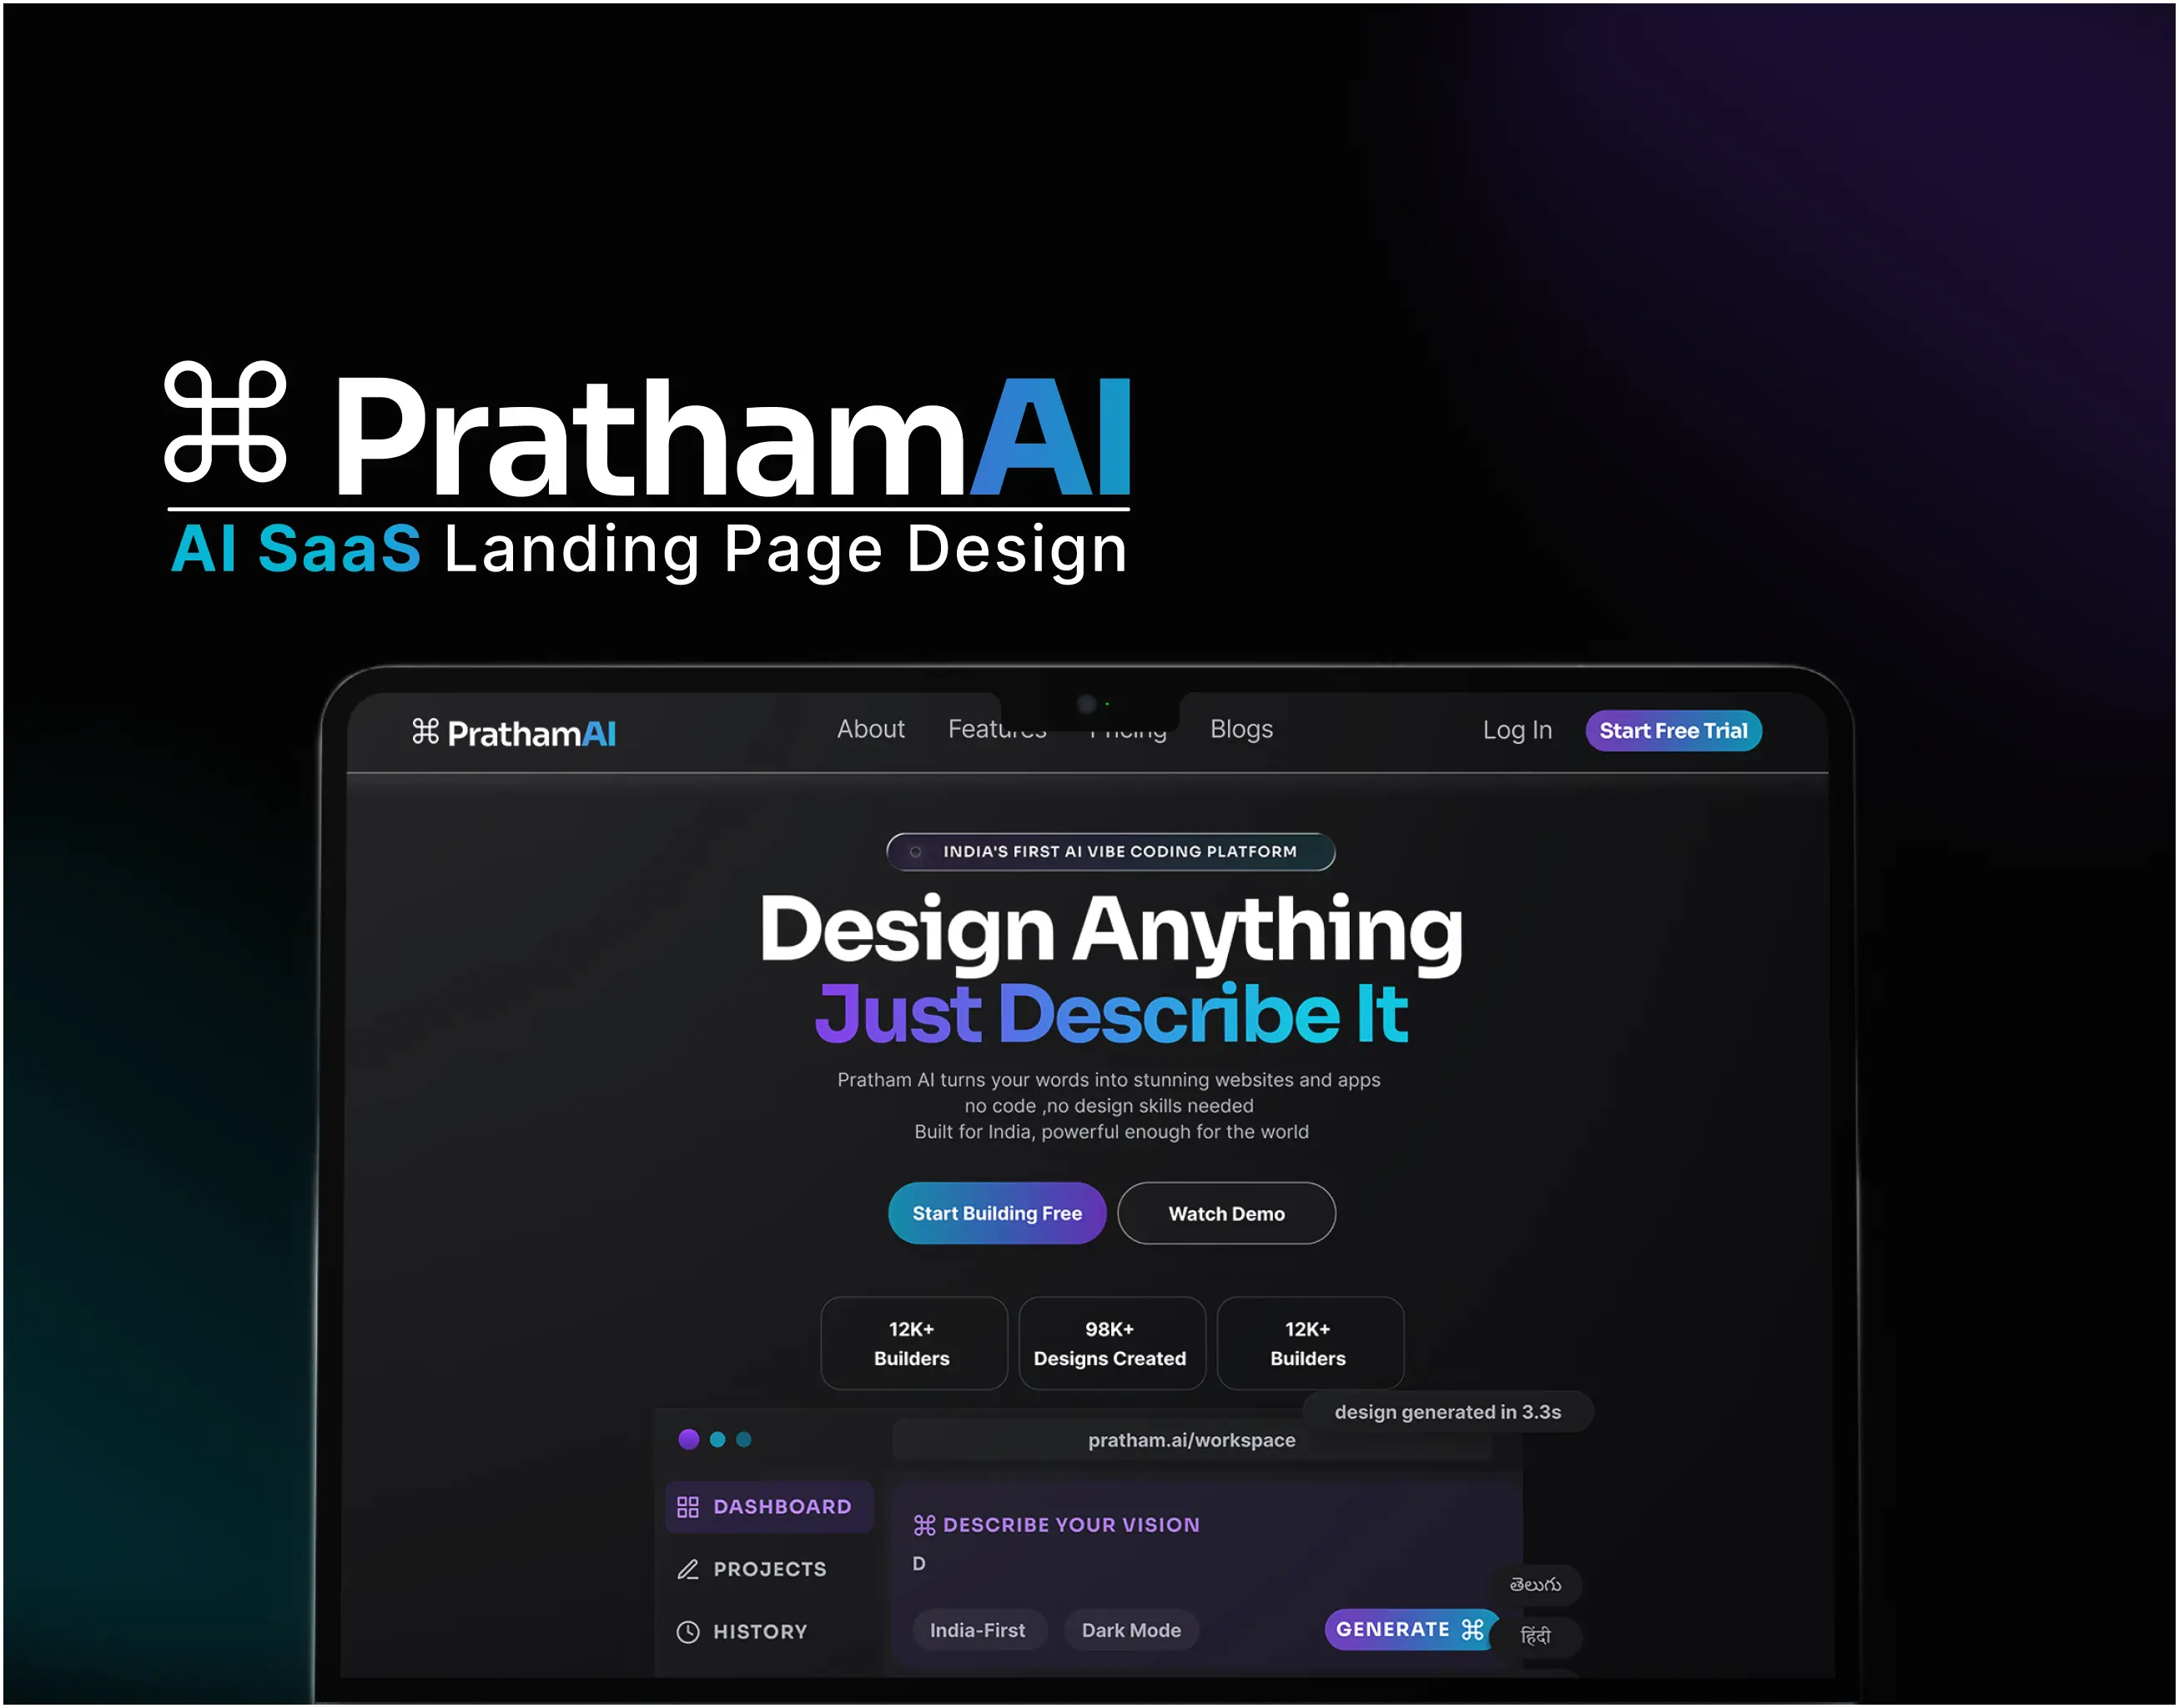
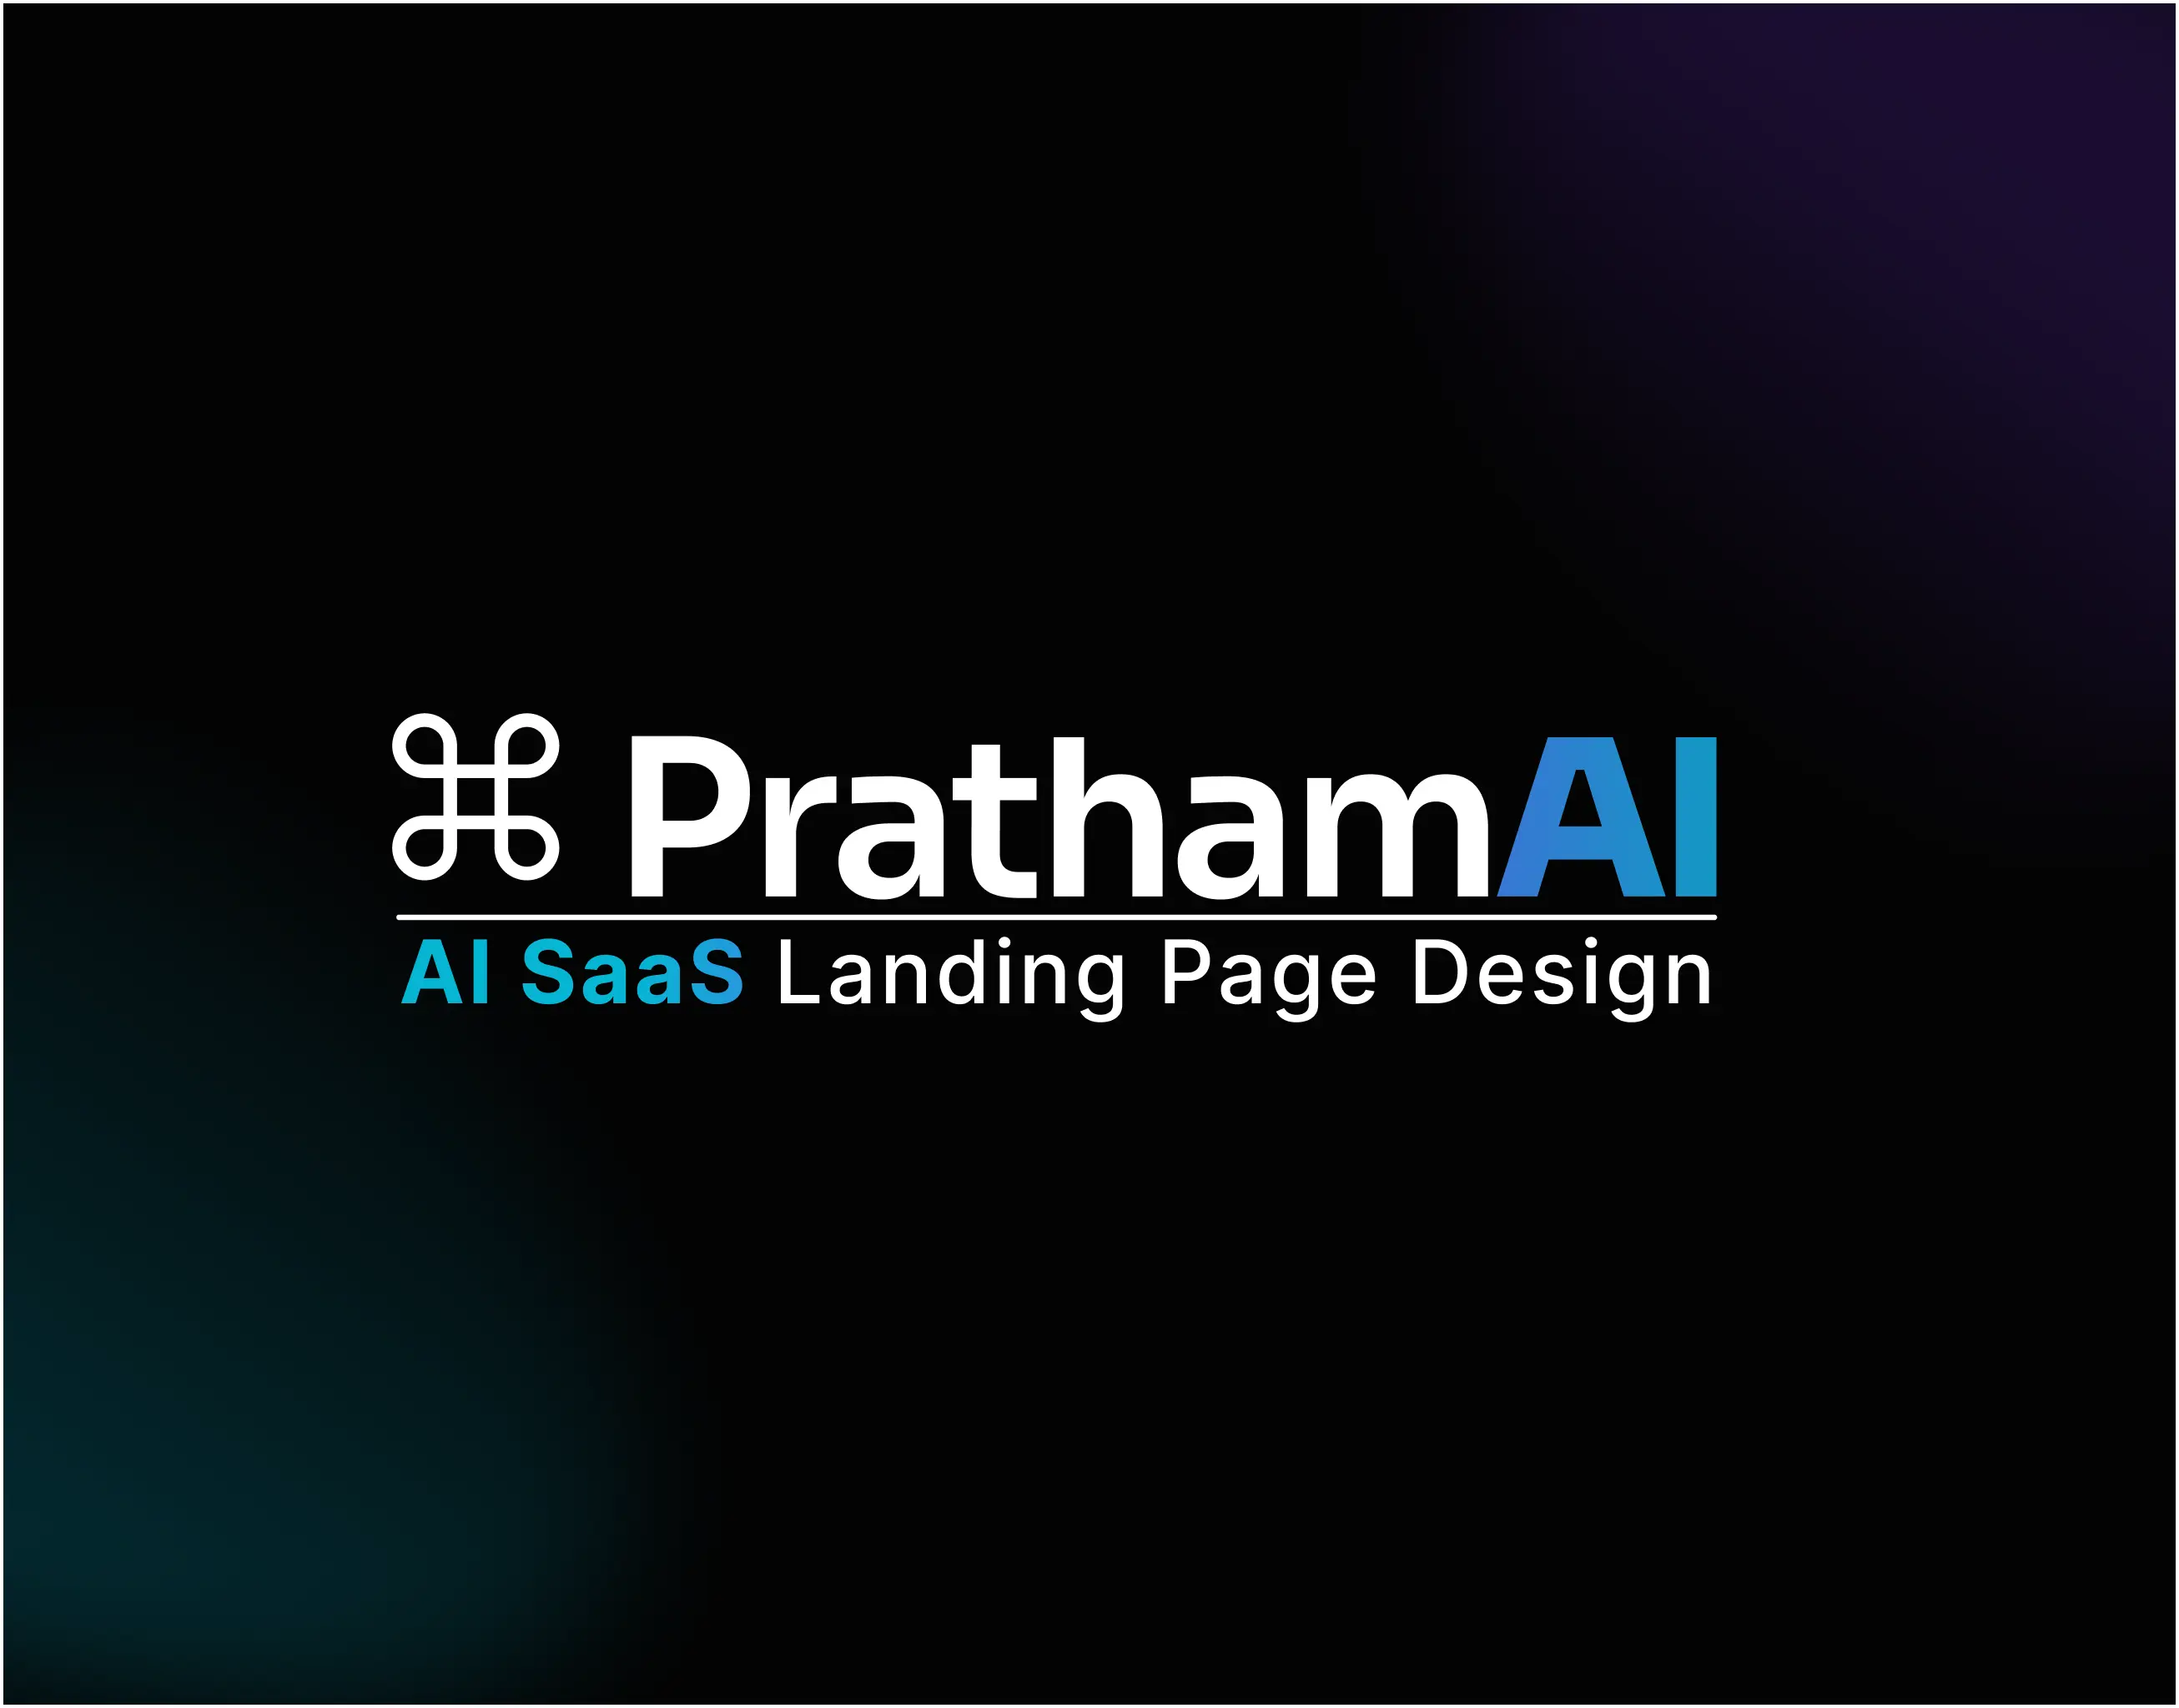
Fix: Revert background adjustments and update project saas webp asset

Changed region(s): [[0.124, 0.375, 0.8373, 1.0], [0.062, 0.2188, 0.5272, 0.3438]]

diff --git a/src/components/Cursor.tsx b/src/components/Cursor.tsx
@@ -1,38 +1,117 @@
 'use client'
-import { useEffect } from 'react'
 
-export default function Cursor() {
+import { useEffect, useRef } from 'react'
+import { gsap } from 'gsap'
+
+export default function CustomCursor() {
+  const cursorRef = useRef<HTMLDivElement>(null)
+
   useEffect(() => {
-    const cursor = document.getElementById('cursor')
-    const ring = document.getElementById('cursor-ring')
-    if (!cursor || !ring) return
+    const cursor = cursorRef.current
+    if (!cursor) return
 
-    let mx = 0, my = 0, rx = 0, ry = 0
+    // Hidden initially to prevent a sudden visual pop on load
+    gsap.set(cursor, { opacity: 0, scale: 1 })
 
-    document.addEventListener('mousemove', (e) => {
-      mx = e.clientX; my = e.clientY
-      cursor.style.transform = `translate(${mx - 4}px,${my - 4}px)`
-    })
-
-    const animRing = () => {
-      rx += (mx - rx) * 0.11
-      ry += (my - ry) * 0.11
-      ring.style.transform = `translate(${rx - 16}px,${ry - 16}px)`
-      requestAnimationFrame(animRing)
+    // 1. Smoothly track cursor coordinates
+    const moveCursor = (e: MouseEvent) => {
+      gsap.to(cursor, {
+        x: e.clientX,
+        y: e.clientY,
+        duration: 0.1,
+        ease: 'power2.out',
+        overwrite: 'auto'
+      })
+      gsap.to(cursor, { opacity: 1, duration: 0.2 })
     }
-    animRing()
 
-    const hoverEls = document.querySelectorAll('a, button, .mag-btn')
-    hoverEls.forEach(el => {
-      el.addEventListener('mouseenter', () => ring.classList.add('hovered'))
-      el.addEventListener('mouseleave', () => ring.classList.remove('hovered'))
-    })
+    // 2. Dynamic Hover Handler (Handles any current or future buttons seamlessly)
+    const handleMouseOver = (e: MouseEvent) => {
+      // Find closest interactive element if hovering child elements
+      const target = (e.target as HTMLElement).closest('.nav-link, .nav-cta, .social-icon, .project-card-trigger, .mag') as HTMLElement
+      
+      if (!target) {
+        // If we aren't hovering an interactive item, keep cursor at standard size
+        gsap.to(cursor, {
+          width: '8px',
+          height: '8px',
+          scale: 1,
+          borderRadius: '50%',
+          backgroundColor: '#CC0000',
+          borderColor: 'transparent',
+          mixBlendMode: 'normal',
+          duration: 0.3,
+          ease: 'power2.out'
+        })
+        return
+      }
+
+      // If it's a prominent main CTA button, dynamically frame it magnetically
+      if (target.classList.contains('nav-cta')) {
+        const rect = target.getBoundingClientRect()
+        gsap.to(cursor, {
+          x: rect.left + rect.width / 2,
+          y: rect.top + rect.height / 2,
+          width: rect.width + 12,
+          height: rect.height + 12,
+          borderRadius: '4px',
+          backgroundColor: 'rgba(204, 0, 0, 0.1)',
+          borderColor: '#CC0000',
+          duration: 0.3,
+          ease: 'power2.out',
+          overwrite: 'auto'
+        })
+      } else {
+        // Expand/invert cursor for text links and simple icons
+        gsap.to(cursor, {
+          scale: 2.5,
+          backgroundColor: '#CC0000',
+          borderColor: 'transparent',
+          mixBlendMode: 'difference',
+          duration: 0.2,
+          overwrite: 'auto'
+        })
+      }
+    }
+
+    // Bind global listeners to window
+    window.addEventListener('mousemove', moveCursor)
+    window.addEventListener('mouseover', handleMouseOver)
+
+    // Perfectly clean up memory allocations when unmounting
+    return () => {
+      window.removeEventListener('mousemove', moveCursor)
+      window.removeEventListener('mouseover', handleMouseOver)
+    }
   }, [])
 
   return (
     <>
-      <div id="cursor" />
-      <div id="cursor-ring" />
+      <style>{`
+        body {
+          cursor: none !important;
+        }
+        a, button, select, input, .mag, .nav-cta {
+          cursor: none !important;
+        }
+      `}</style>
+      <div
+        ref={cursorRef}
+        style={{
+          position: 'fixed',
+          top: 0,
+          left: 0,
+          width: '8px',
+          height: '8px',
+          backgroundColor: '#CC0000',
+          borderRadius: '50%',
+          pointerEvents: 'none',
+          zIndex: 9999,
+          transform: 'translate(-50%, -50%)',
+          border: '1px solid transparent',
+          transition: 'background-color 0.2s, border-color 0.2s',
+        }}
+      />
     </>
   )
 }

diff --git a/src/app/page.tsx b/src/app/page.tsx
@@ -1,6 +1,7 @@
 'use client'
 import { useEffect } from 'react'
 import Cursor from '@/components/Cursor'
+import { CosmosBackground } from '@/components/CosmosBackground'
 import Intro from '@/components/Intro'
 import Nav from '@/components/Nav'
 import ScrollyCanvas from '@/components/ScrollyCanvas'
@@ -29,8 +30,14 @@ export default function Home() {
   }, [])
 
   return (
-    <main>
+    <main style={{ position: 'relative', width: '100%', minHeight: '100vh', overflowX: 'hidden' }}>
+      {/* 1. Global Interactive Background Canvas Layer */}
+      <CosmosBackground />
+
+      {/* 2. Interactive Custom Fixed Cursor Overlay */}
       <Cursor />
+      
+      {/* 3. Page Assembly Sections */}
       <Intro />
       <Nav />
       <ScrollyCanvas />